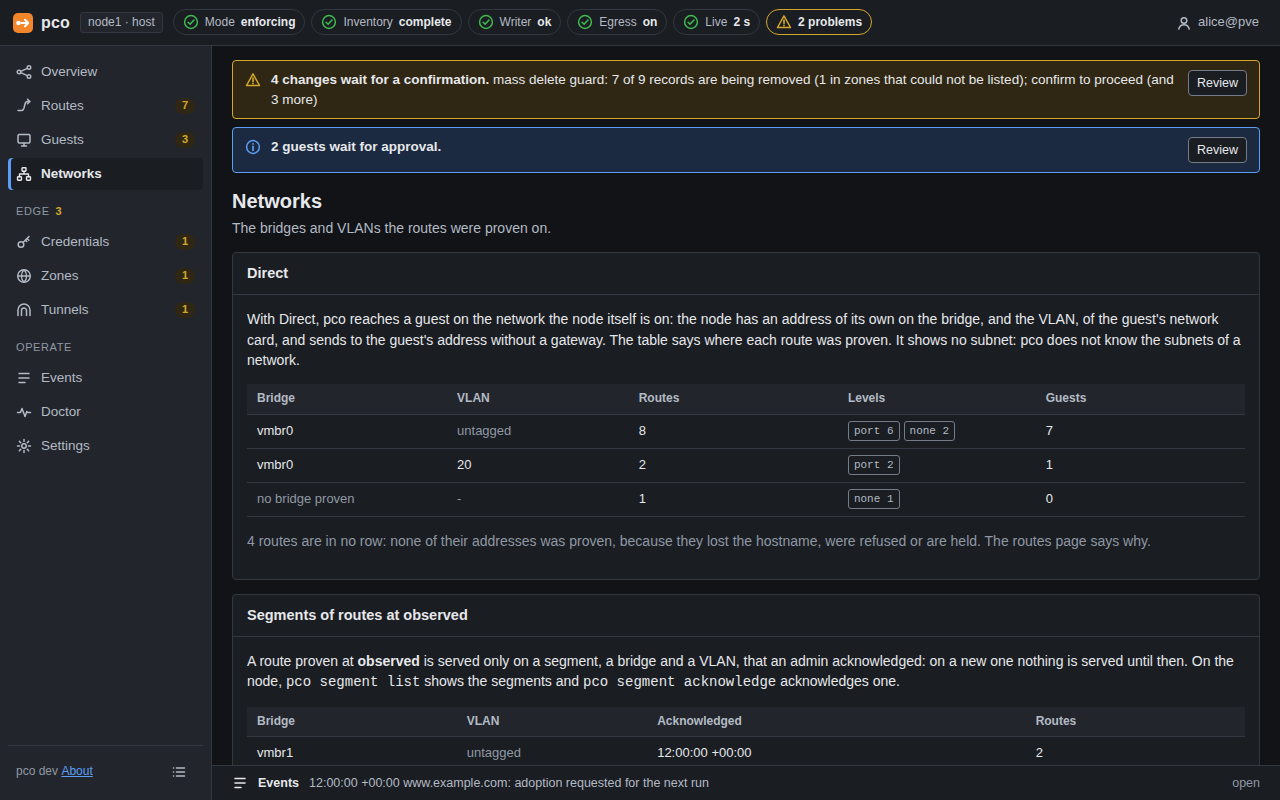
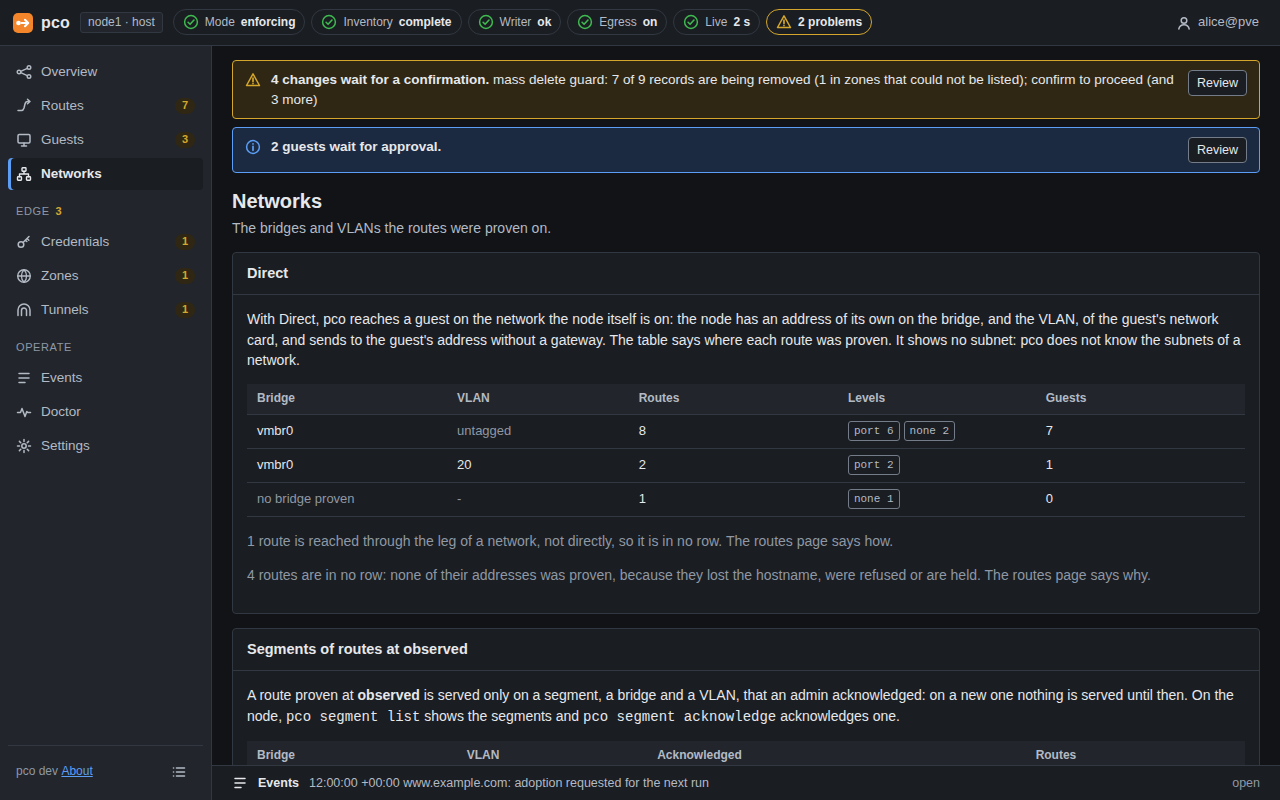
docs: remake the screenshots with a route reached through a leg
The populated scenario now has a route served through the leg of an
attached network: the overview, its map, the routes, the networks, the
doctor and the zones show it. The map at rest is zoomed out a step so
that the network's card is in the picture, and a new shot of the routes
is scrolled to that route, whose service is a service address.

diff --git a/web/e2e/docs/shots.spec.ts b/web/e2e/docs/shots.spec.ts
@@ -72,9 +72,11 @@ async function atMap(page: Page): Promise<void> {
 }
 
 // openMap opens the overview at path with the map drawn and fitted to its
-// width, and then lets its dots move for 1.6 s: the motion is paused while
-// the map is drawn, so that they start from the same frame every time.
-async function openMap(page: Page, pco: Pco, path: string, { icons = false } = {}): Promise<void> {
+// width, zoomed out a given number of steps when the whole map is taller
+// than the window, and then lets its dots move for 1.6 s: the motion is
+// paused while the map is drawn, so that they start from the same frame
+// every time.
+async function openMap(page: Page, pco: Pco, path: string, { icons = false, zoomOut = 0 } = {}): Promise<void> {
   await withTicket(page.context(), pco, admin)
   const read = page.waitForResponse((r) => new URL(r.url()).pathname === '/api/v1/state' && r.ok())
   await page.goto(path)
@@ -86,6 +88,10 @@ async function openMap(page: Page, pco: Pco, path: string, { icons = false } = {
   await expect(map.locator('.fm-lines .fm-edge-trunk .fm-figure').first()).toBeVisible()
   await page.getByRole('button', { name: 'Fit' }).click()
   await settle(page)
+  for (let i = 0; i < zoomOut; i++) {
+    await page.getByRole('button', { name: 'Zoom out' }).click()
+    await settle(page)
+  }
   await page.getByRole('button', { name: 'Resume motion' }).click()
   await page.clock.runFor(1600)
 }
@@ -103,9 +109,10 @@ test('overview', async ({ page, pco }) => {
 })
 
 // The whole map takes more width than the navigation leaves at 1280 px: it
-// shows its icons only.
+// shows its icons only. Fitted to the width it is taller than the window,
+// so it is zoomed out a step to show the network a route is reached through.
 test('the flow map at rest', async ({ page, pco }) => {
-  await openMap(page, pco, '/', { icons: true })
+  await openMap(page, pco, '/', { icons: true, zoomOut: 1 })
   await atMap(page)
   await shoot(page, 'overview-map')
 })
@@ -119,6 +126,18 @@ test('the flow map drilled into a hostname', async ({ page, pco }) => {
 test('routes', async ({ page, pco }) => {
   await open(page, pco, '/routes')
   await shoot(page, 'routes')
+})
+
+// The route reached through the leg of an attached network is the last row
+// of the table, below the window: the table is scrolled to it.
+test('the routes, at a route reached through a leg', async ({ page, pco }) => {
+  await open(page, pco, '/routes')
+  const table = page.getByRole('table', { name: 'Routes' })
+  const row = table.getByRole('row').filter({ hasText: 'zabbix.example.com' })
+  await row.evaluate((el) => el.scrollIntoView({ block: 'center' }))
+  await settle(page)
+  await expect(row).toContainText('198.18.1.5')
+  await shoot(page, 'routes-leg')
 })
 
 test('a route', async ({ page, pco }) => {

diff --git a/docs/web-ui.md b/docs/web-ui.md
@@ -355,6 +355,8 @@ is not active says why under its hostname. Over the table a line says when these
 of an earlier cycle: before the first cycle, after a cycle that held, and when the inventory was
 incomplete.
 
+![The routes scrolled to zabbix.example.com, reached through the leg of the attached network vmbr2: its service is the service address 198.18.1.5, which the gateway forwards to the guest](images/ui-routes-leg-light.png)
+
 A row opens the route in a drawer, or as a page of its own on a phone. Its address,
 `/routes/<hostname>?owner=<owner>`, can be shared.
 
@@ -482,7 +484,7 @@ claims. The claims are read when the page opens; Read again reads them anew.
 
 ## Networks
 
-![The networks: the bridges and VLANs the routes were proven on, with their routes, levels and guests, and the segments of routes at observed](images/ui-networks-light.png)
+![The networks: the bridges and VLANs the routes were proven on, with their routes, levels and guests, the line that counts the routes reached through a leg, and the segments of routes at observed](images/ui-networks-light.png)
 
 Where the routes were proven directly, as the node itself: a row for each bridge and VLAN, with
 the number of routes, their identity levels and their guests, and a row for the routes proven on
